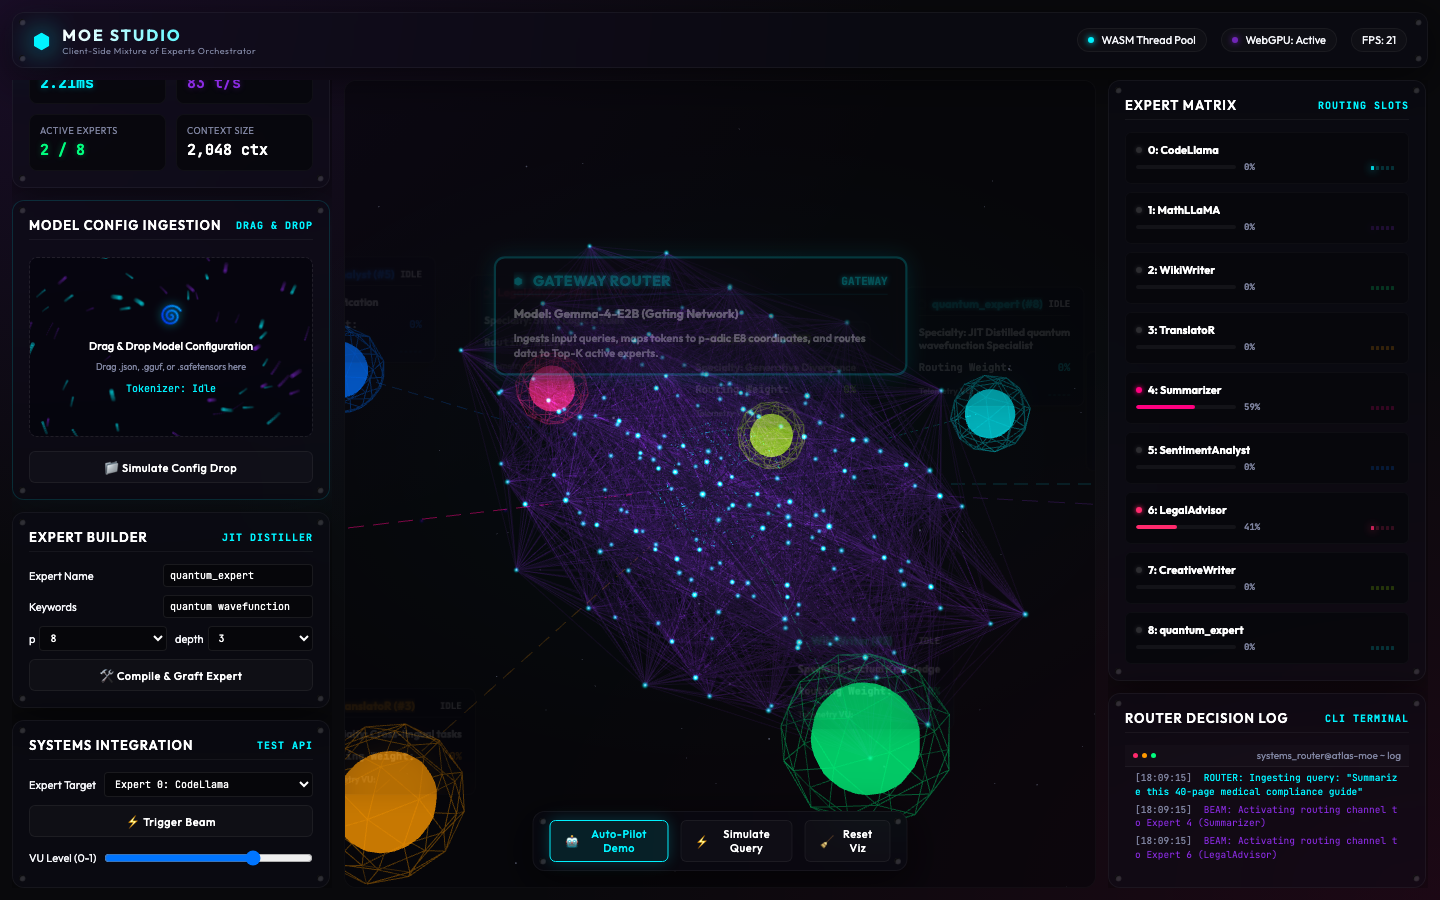
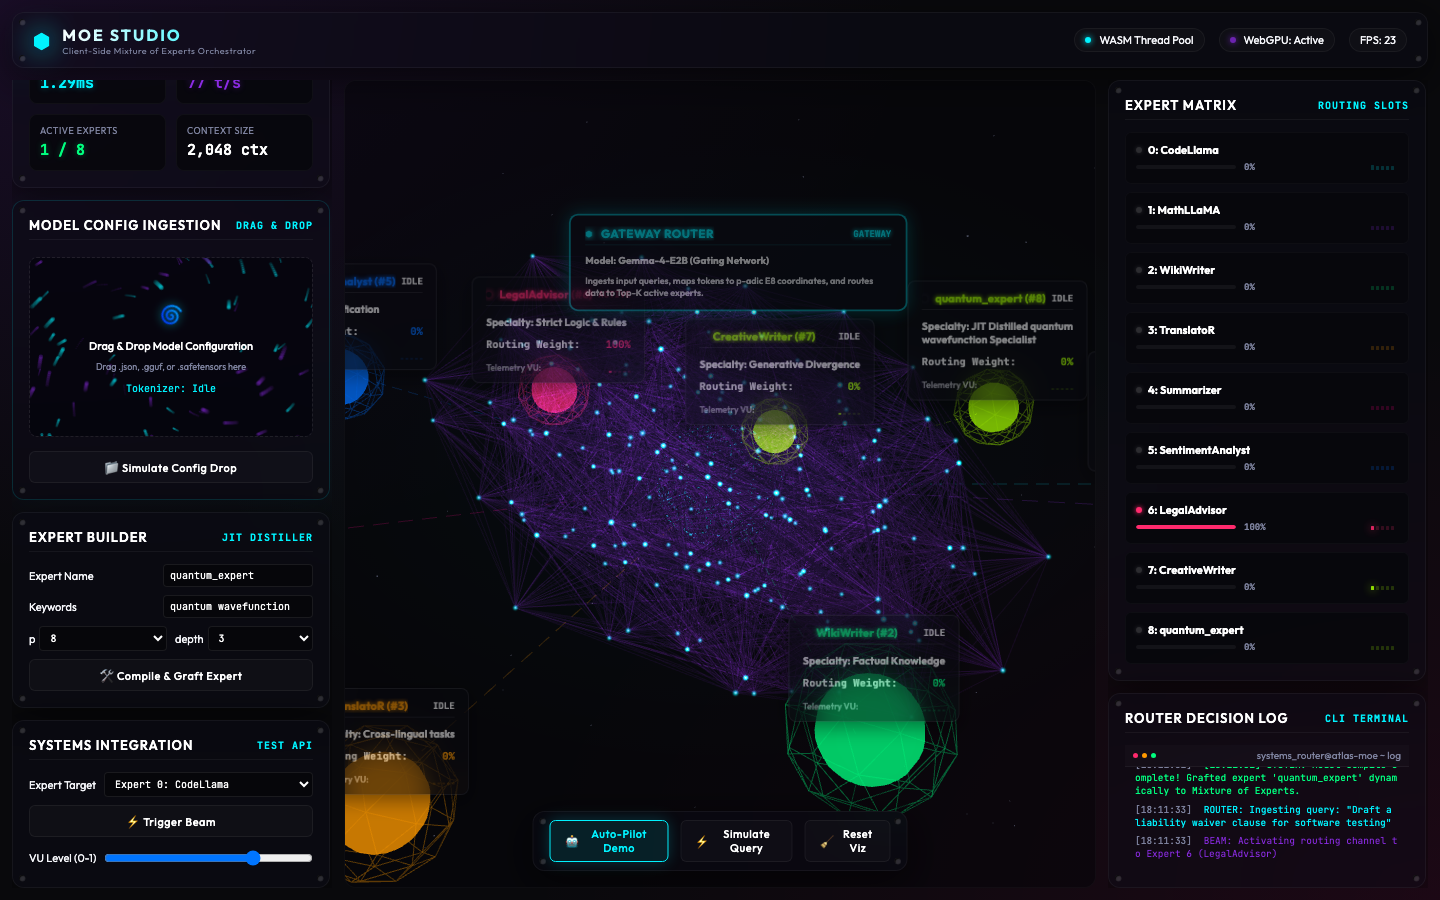
style(moe-studio): position gateway card above E8 lattice, increase minimum expert label opacity for enhanced visibility

diff --git a/docs/moe_designer.html b/docs/moe_designer.html
@@ -992,10 +992,10 @@
         // --- DYNAMIC POSITION PROJECTION (3D -> HTML) ---
         const tempProj = new THREE.Vector3();
         function updateFloatingCards() {
-            // 1. Project central gateway router at position (0, 1.8, 0)
+            // 1. Project central gateway router at position (0, 3.2, 0) - moved up to avoid blocking core view
             const gCard = document.getElementById('gateway-card');
             if (gCard) {
-                const gatewayPos = new THREE.Vector3(0, 1.8, 0);
+                const gatewayPos = new THREE.Vector3(0, 3.2, 0);
                 tempProj.copy(gatewayPos).project(camera);
                 
                 if (tempProj.z > 1) {
@@ -1011,10 +1011,12 @@
                     gCard.style.transform = `translate(-50%, -100%) translateY(-10px)`;
                     gCard.style.zIndex = 1001; // Keep gateway card above expert cards
                     
-                    const scale = Math.max(1.1, 1.45 - tempProj.z * 0.35);
+                    const scale = Math.max(0.9, 1.2 - tempProj.z * 0.3);
                     gCard.style.scale = scale;
                     
-                    const opacity = Math.max(0.3, Math.min(1.0, 1.5 - tempProj.z * 1.2));
+                    // Gateway card decays to semi-translucent when idle, flashes to bright when routing
+                    const pulseVal = window.gatewayPulse || 0.0;
+                    const opacity = Math.max(0.45, Math.min(1.0, (0.55 + pulseVal * 0.45) * (1.4 - tempProj.z * 1.0)));
                     gCard.style.opacity = opacity;
                 }
             }
@@ -1052,8 +1054,8 @@
                 const scale = Math.max(0.95, 1.3 - tempProj.z * 0.35);
                 card.style.scale = scale;
                 
-                // Fade out cards that are too far back
-                const opacity = Math.max(0.1, Math.min(1.0, 1.3 - tempProj.z * 1.5));
+                // Fade out cards that are too far back, but keep minimum opacity high (0.5) for legibility
+                const opacity = Math.max(0.5, Math.min(1.0, 1.4 - tempProj.z * 0.9));
                 card.style.opacity = opacity;
             });
         }